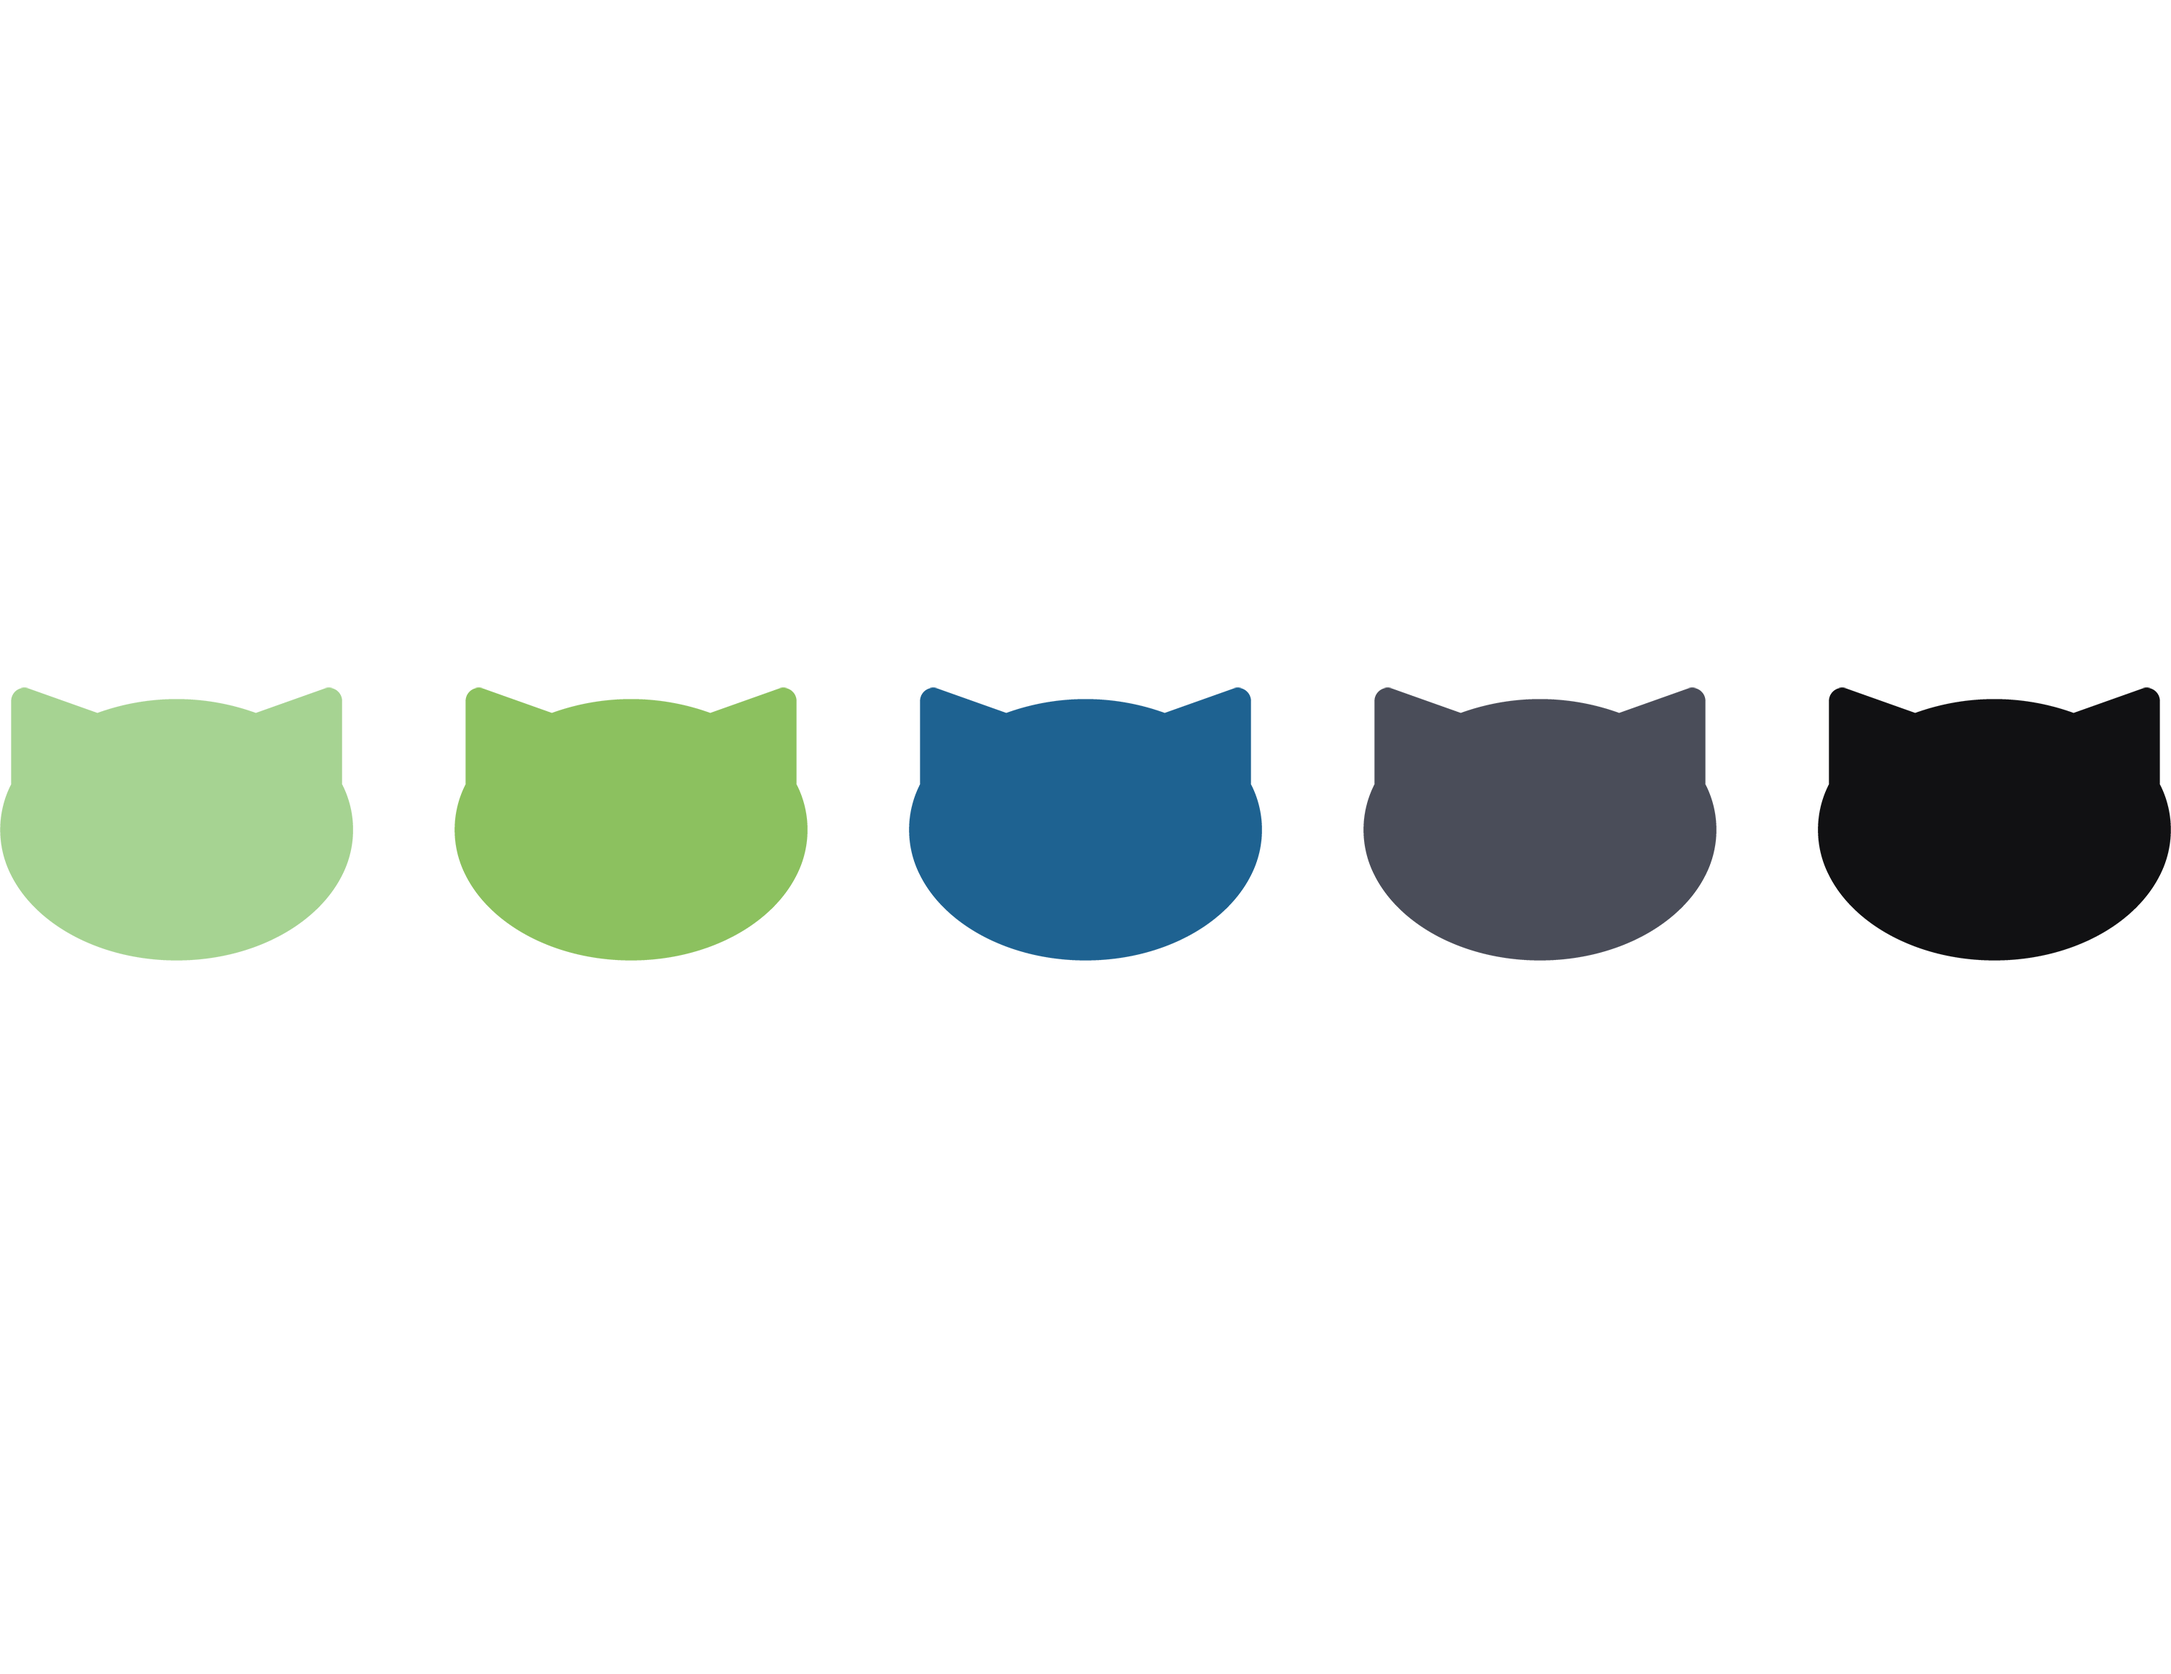
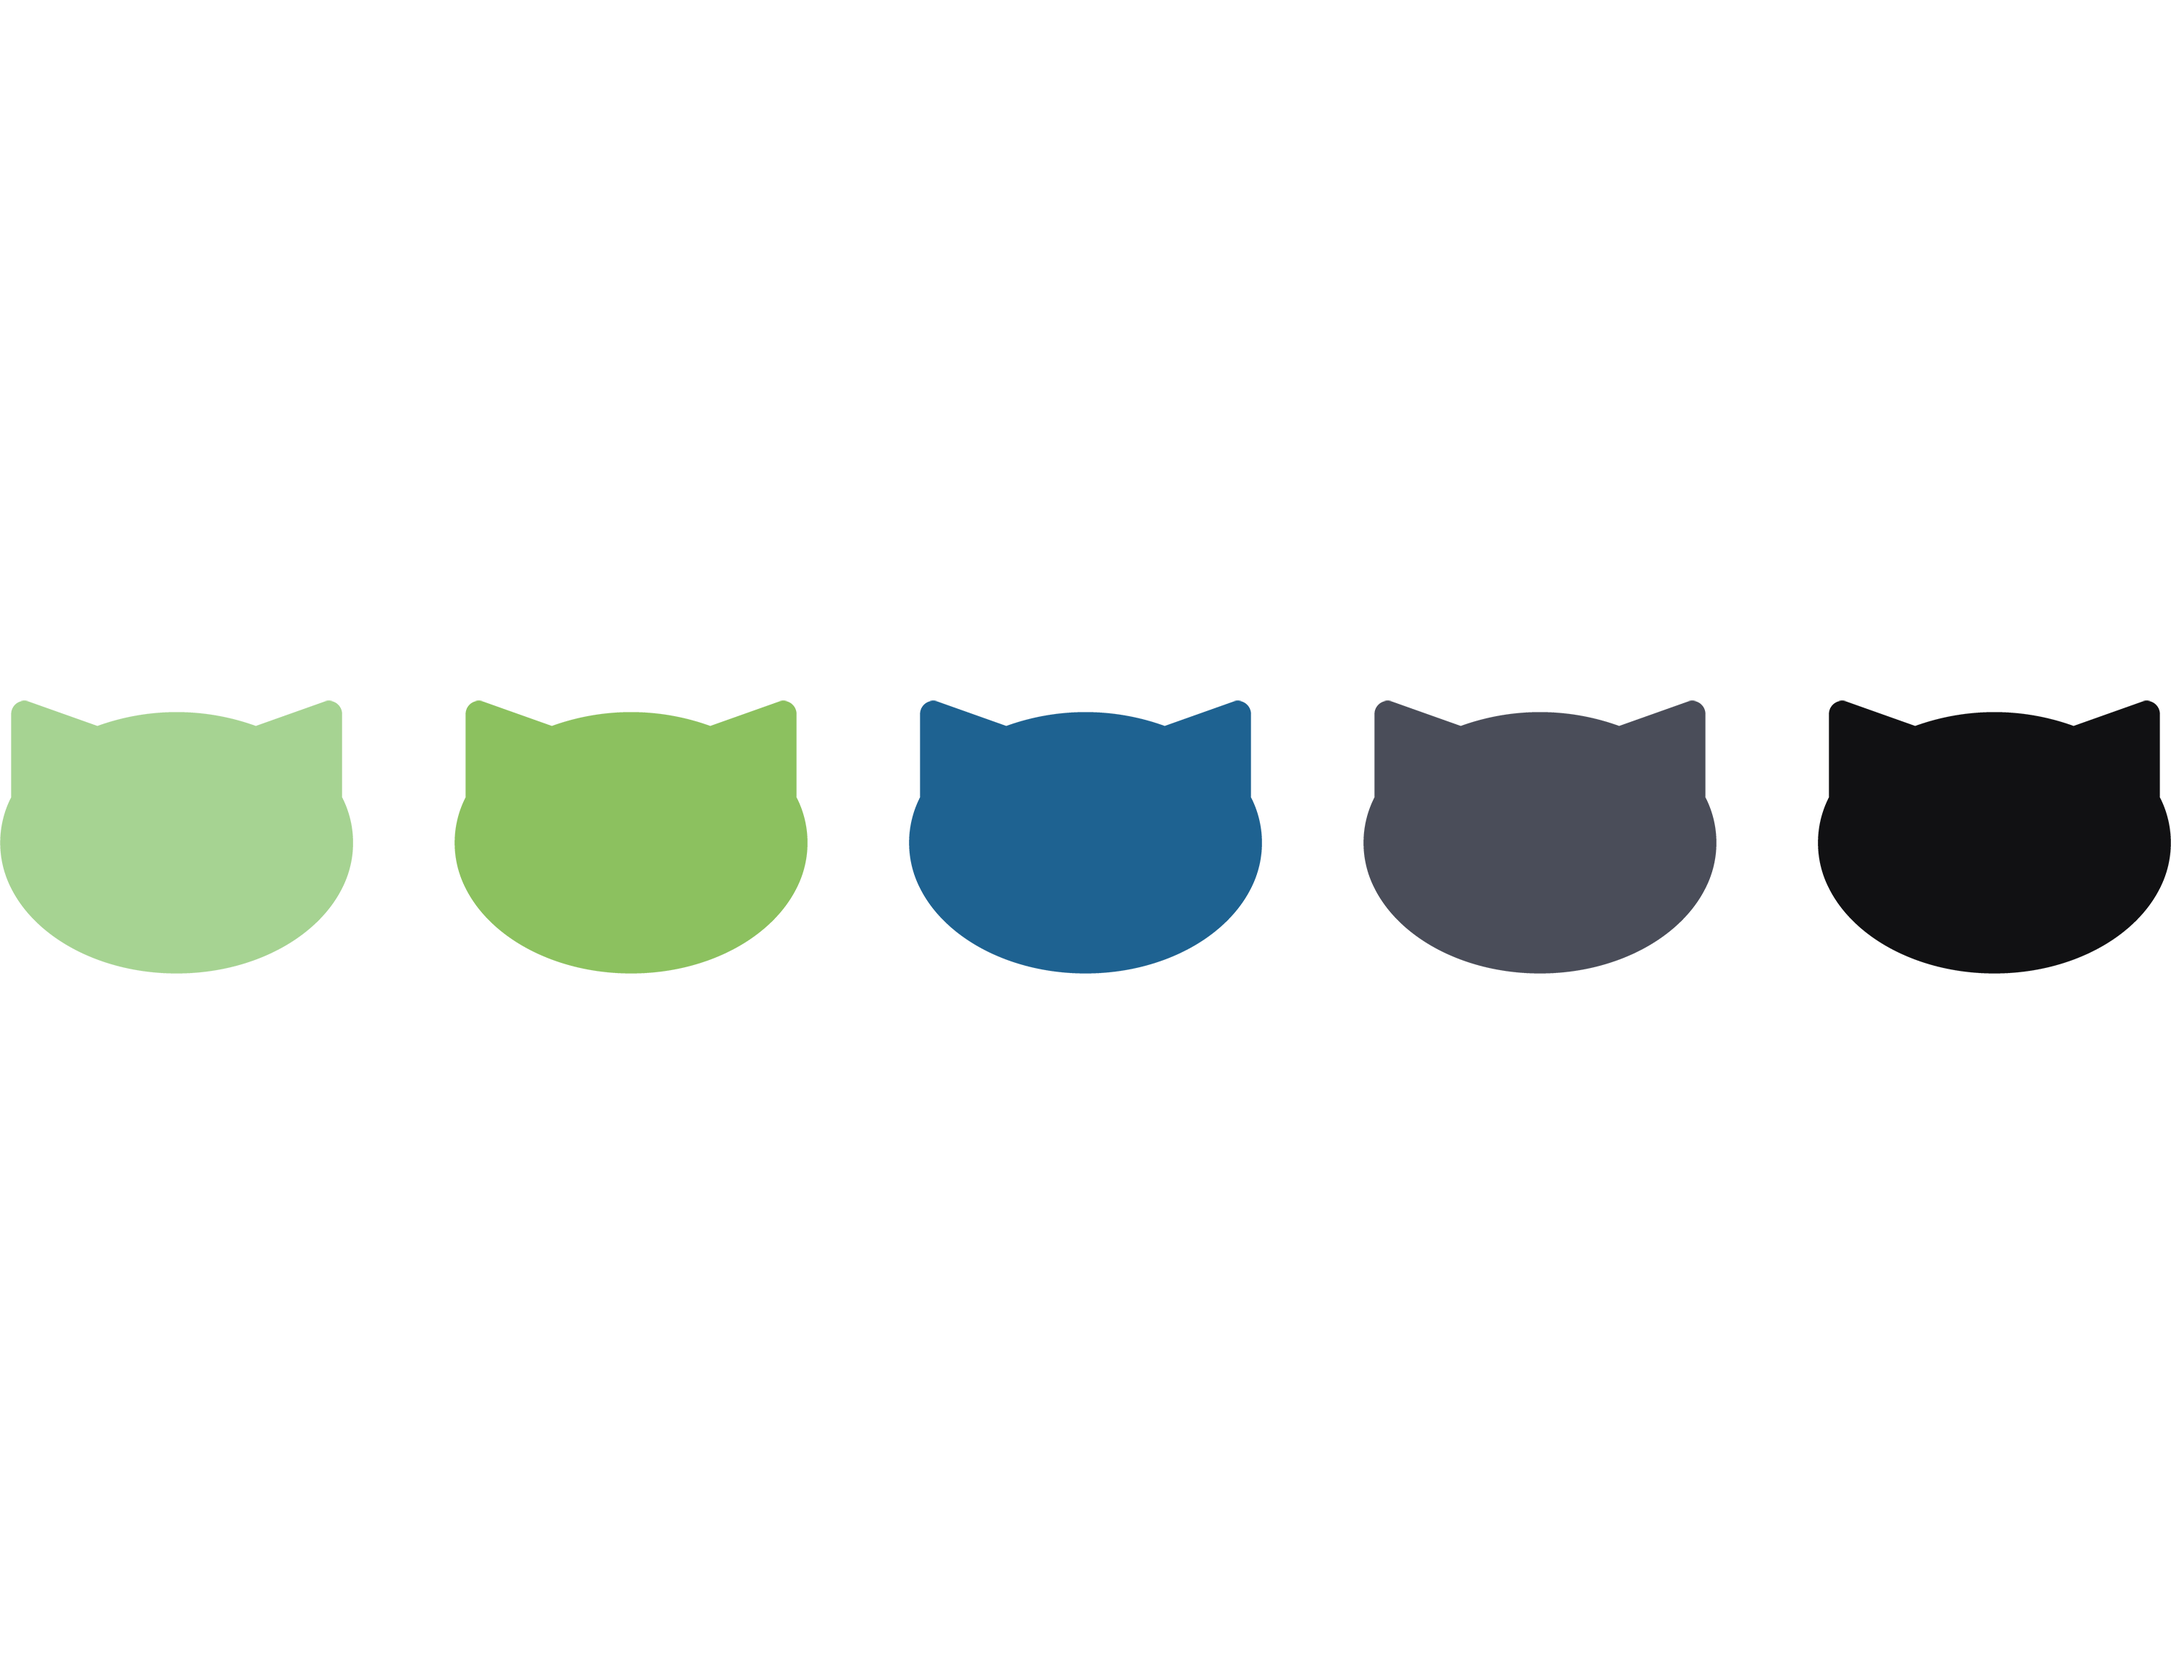
Adjust image sizes

diff --git a/our-brand.html b/our-brand.html
@@ -159,7 +159,7 @@
         <div class="pad-t-2 pad-b-2 gutter">
           <div class="gutter">
             <h2 class="push-1-2 txt-blue">Logo Sketching Process</h2>
-            <div class="bg-grey island gutter-2 push">
+            <div class="bg-grey island push">
               <img class="img-flex max-length" src="/images/our-brand-sketchs.png" alt="Fat Black Cat logo sketches">
             </div>
             <p class="push-0 milli">We knew we wanted to make the icon simple and only use a single colour. This makes the icon easier to reproduce at smaller sizes without losing detail.</p>
@@ -172,7 +172,7 @@
 
           <div class="unit m-1-2 gutter unit-content-distribute">
             <h2 class="push-1-2 txt-blue">Colour Palette</h2>
-            <div class="bg-grey island push">
+            <div class="bg-grey island gutter-2 push">
               <img class="img-flex" src="/images/fatblackcat-colours.png" alt="Fat Black Cat colour palette">
             </div>
             <p class="push-0 milli">Fat Black Cat Studio’s colours were chosen to match the colours of our real life fat black cat and her collar.</p>
@@ -180,7 +180,7 @@
 
           <div class="unit m-1-2 gutter unit-content-distribute">
             <h2 class="push-1-2 txt-blue">Typeface</h2>
-            <div class="bg-grey island-2 push">
+            <div class="bg-grey island gutter-2 push">
               <img class="img-flex" src="/images/fatblackcat-typeface.png" alt="Fat Black Cat typeface">
             </div>
             <p class="push-0 milli">When deciding on a typeface, we chose one with several different weights to establish a hierarchy with headings.</p>
